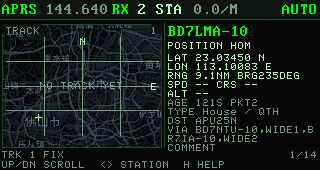
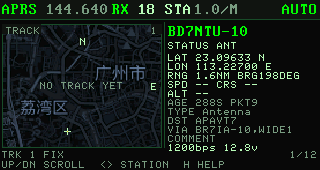
Remove the grid from the APRS detail map

diff --git a/src/ui/aprs_ui_renderer.cpp b/src/ui/aprs_ui_renderer.cpp
@@ -602,19 +602,29 @@ void AprsUIRenderer::renderTrackPlot(const aprs::StationState& station,
     const int iy = py + 13;
     const int iw = pw - 8;
     const int ih = ph - 26;
-    const bool has_map = map != nullptr && station.has_position && range_nm > 0.0f;
-    const uint16_t grid_color = has_map ? theme_.dim : theme_.grid;
+    const bool has_map =
+        map != nullptr && station.has_position && range_nm > 0.0f;
 
-    for (int i = 1; i < 4; ++i) {
-        fb_.drawLine(ix + iw * i / 4, iy, ix + iw * i / 4, iy + ih,
-                     grid_color);
-        fb_.drawLine(ix, iy + ih * i / 4, ix + iw, iy + ih * i / 4,
-                     grid_color);
+    // The grid is only a fallback for the no-map case. Over a real map it
+    // hides roads, labels and coastlines on the small panel.
+    if (!has_map) {
+        for (int i = 1; i < 4; ++i) {
+            fb_.drawLine(ix + iw * i / 4, iy, ix + iw * i / 4, iy + ih,
+                         theme_.grid);
+            fb_.drawLine(ix, iy + ih * i / 4, ix + iw, iy + ih * i / 4,
+                         theme_.grid);
+        }
     }
-    drawSmallText(ix + iw / 2 - 2, iy + 1, "N",
-                  has_map ? theme_.text : theme_.dim);
-    drawSmallText(ix + iw - 7, iy + ih / 2 - 3, "E",
-                  has_map ? theme_.text : theme_.dim);
+
+    const auto draw_compass = [&](int x, int y, const char* text) {
+        if (has_map) {
+            fb_.fillRect(x - 1, y - 1, smallTextWidth(text) + 2, 9,
+                         theme_.panel);
+        }
+        drawSmallText(x, y, text, has_map ? theme_.text : theme_.dim);
+    };
+    draw_compass(ix + iw / 2 - 2, iy + 1, "N");
+    draw_compass(ix + iw - 7, iy + ih / 2 - 3, "E");
 
     if (range_nm <= 0.0f && station.has_position) {
         center_lat = station.latitude;
